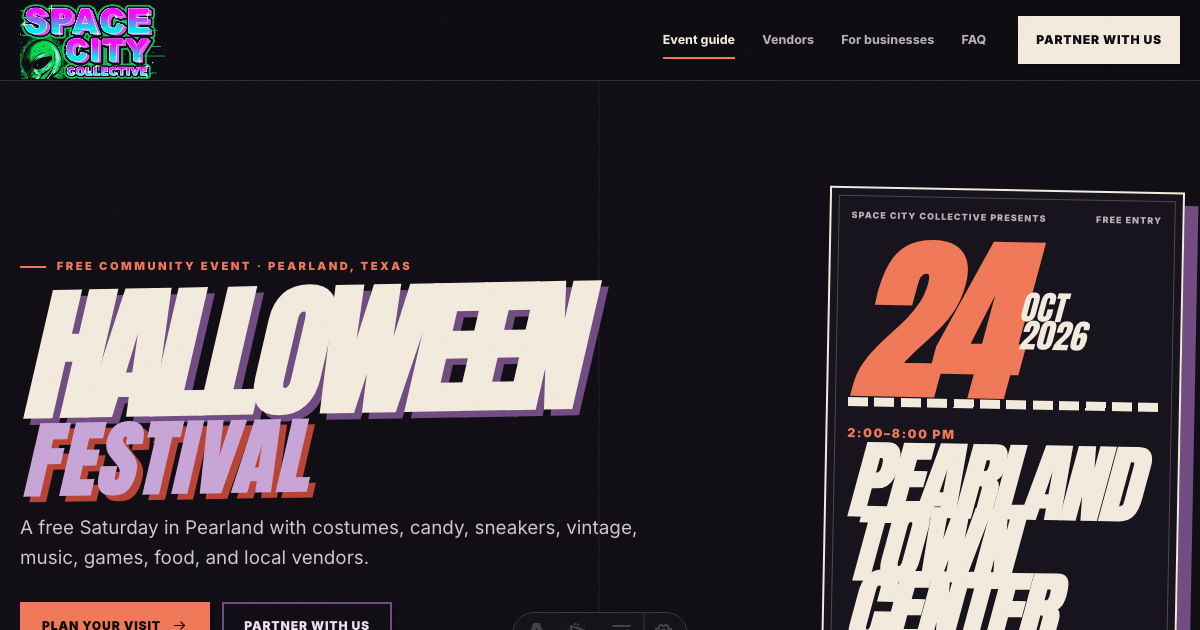
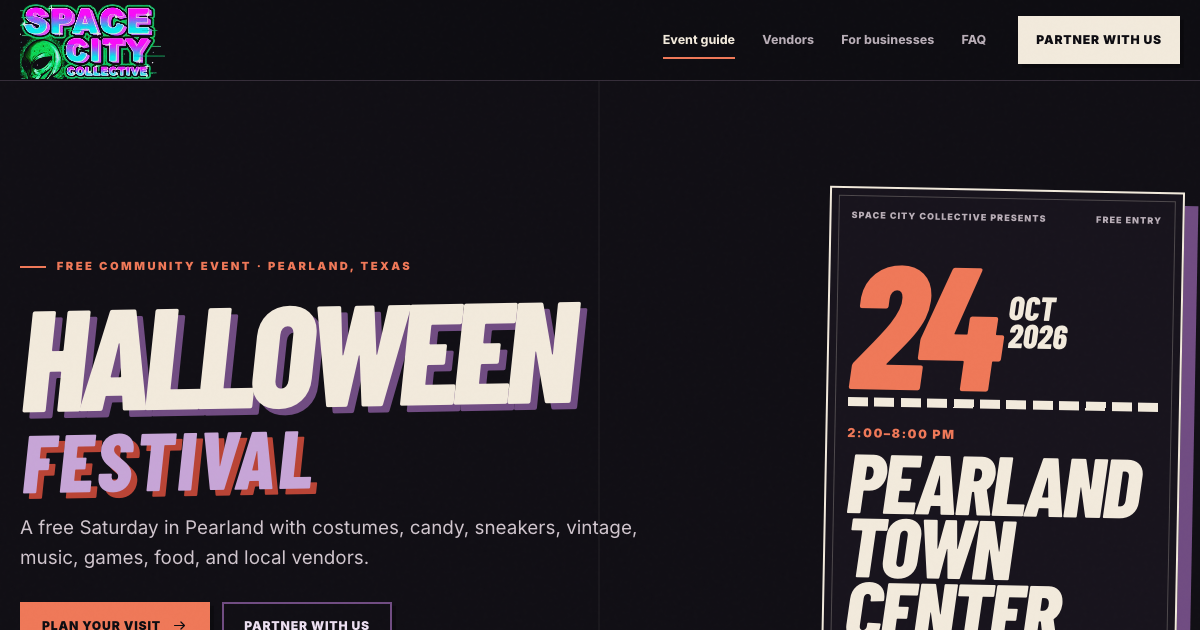
better font

diff --git a/tests/e2e/site.spec.ts b/tests/e2e/site.spec.ts
@@ -111,6 +111,28 @@ test("the mobile home headline respects the page gutter", async ({ page }) => {
   expect(bounds.right).toBeLessThanOrEqual(bounds.viewport - 8);
 });
 
+test("mobile display type stays open and readable", async ({ page }) => {
+  test.skip((page.viewportSize()?.width ?? 1000) > 720, "Mobile-only typography check");
+  await page.goto("/");
+  await page.evaluate(() => document.fonts.ready);
+
+  for (const selector of [".event-bill h2", ".program-heading h2"]) {
+    const typography = await page.locator(selector).evaluate((heading) => {
+      const styles = getComputedStyle(heading);
+      const fontSize = Number.parseFloat(styles.fontSize);
+      return {
+        family: styles.fontFamily,
+        lineHeightRatio: Number.parseFloat(styles.lineHeight) / fontSize,
+        trackingRatio: Number.parseFloat(styles.letterSpacing) / fontSize
+      };
+    });
+
+    expect(typography.family).toContain("Barlow Condensed");
+    expect(typography.lineHeightRatio).toBeGreaterThanOrEqual(0.88);
+    expect(typography.trackingRatio).toBeGreaterThanOrEqual(-0.02);
+  }
+});
+
 test("mobile visitors can reach every primary destination from the header", async ({ page }) => {
   test.skip((page.viewportSize()?.width ?? 1000) > 920, "Mobile-only navigation check");
   await page.goto("/");

diff --git a/src/styles/global.css b/src/styles/global.css
@@ -1,8 +1,8 @@
 @font-face {
-  font-family: "Anton";
-  src: url("/fonts/anton-latin.woff2") format("woff2");
-  font-style: normal;
-  font-weight: 400;
+  font-family: "Barlow Condensed";
+  src: url("/fonts/barlow-condensed-latin-italic.woff2") format("woff2");
+  font-style: italic;
+  font-weight: 800;
   font-display: swap;
 }
 
@@ -29,7 +29,7 @@
   --green: #829d72;
   --radius: 1.25rem;
   --shadow: 0 1.5rem 5rem rgb(0 0 0 / 25%);
-  --headline: "Anton", Impact, Haettenschweiler, "Arial Narrow Bold", sans-serif;
+  --headline: "Barlow Condensed", Impact, Haettenschweiler, "Arial Narrow Bold", sans-serif;
   --body: "Inter", ui-sans-serif, system-ui, -apple-system, BlinkMacSystemFont, "Segoe UI", sans-serif;
 }
 
@@ -2040,7 +2040,9 @@ h3 {
 
 @media (max-width: 720px) {
   .poster-hero h1 {
-    font-size: clamp(4.5rem, 23vw, 7.5rem);
+    font-size: clamp(4.5rem, 22vw, 7.5rem);
+    letter-spacing: -0.02em;
+    line-height: 0.88;
   }
 
   .event-bill {
@@ -2050,6 +2052,17 @@ h3 {
 
   .bill-date strong {
     font-size: clamp(7rem, 35vw, 10rem);
+  }
+
+  .event-bill h2 {
+    letter-spacing: -0.01em;
+    line-height: 0.9;
+  }
+
+  .section-heading h2,
+  .display-heading {
+    letter-spacing: -0.01em;
+    line-height: 0.96;
   }
 
   .program-item,

diff --git a/tests/site-contract.test.ts b/tests/site-contract.test.ts
@@ -29,9 +29,10 @@ describe("site structure", () => {
   it("self-hosts the display and body fonts used by the design", () => {
     const css = readFileSync("src/styles/global.css", "utf8");
 
-    expect(existsSync("public/fonts/anton-latin.woff2")).toBe(true);
+    expect(existsSync("public/fonts/barlow-condensed-latin-italic.woff2")).toBe(true);
     expect(existsSync("public/fonts/inter-latin.woff2")).toBe(true);
-    expect(css).toContain('font-family: "Anton"');
+    expect(css).toContain('font-family: "Barlow Condensed"');
+    expect(css).toContain('--headline: "Barlow Condensed"');
     expect(css).toContain('font-family: "Inter"');
     expect(css.match(/font-display: swap/g)).toHaveLength(2);
   });

diff --git a/README.md b/README.md
@@ -29,7 +29,7 @@ The end-to-end command builds the site, starts a local static server, and checks
 
 Placeholder vendor listings live in `src/data/vendors.ts`. Replace each sample object with confirmed vendor details as the roster arrives; the homepage preview and full directory read from the same data source.
 
-The site self-hosts Latin WOFF2 builds of Anton and Inter in `public/fonts/` under the included SIL Open Font License files. The public event page also ships an `.ics` calendar download and a Google Calendar link.
+The site self-hosts Latin WOFF2 builds of Barlow Condensed Italic and Inter in `public/fonts/` under the included SIL Open Font License files. The public event page also ships an `.ics` calendar download and a Google Calendar link.
 
 ## Form integration
 
